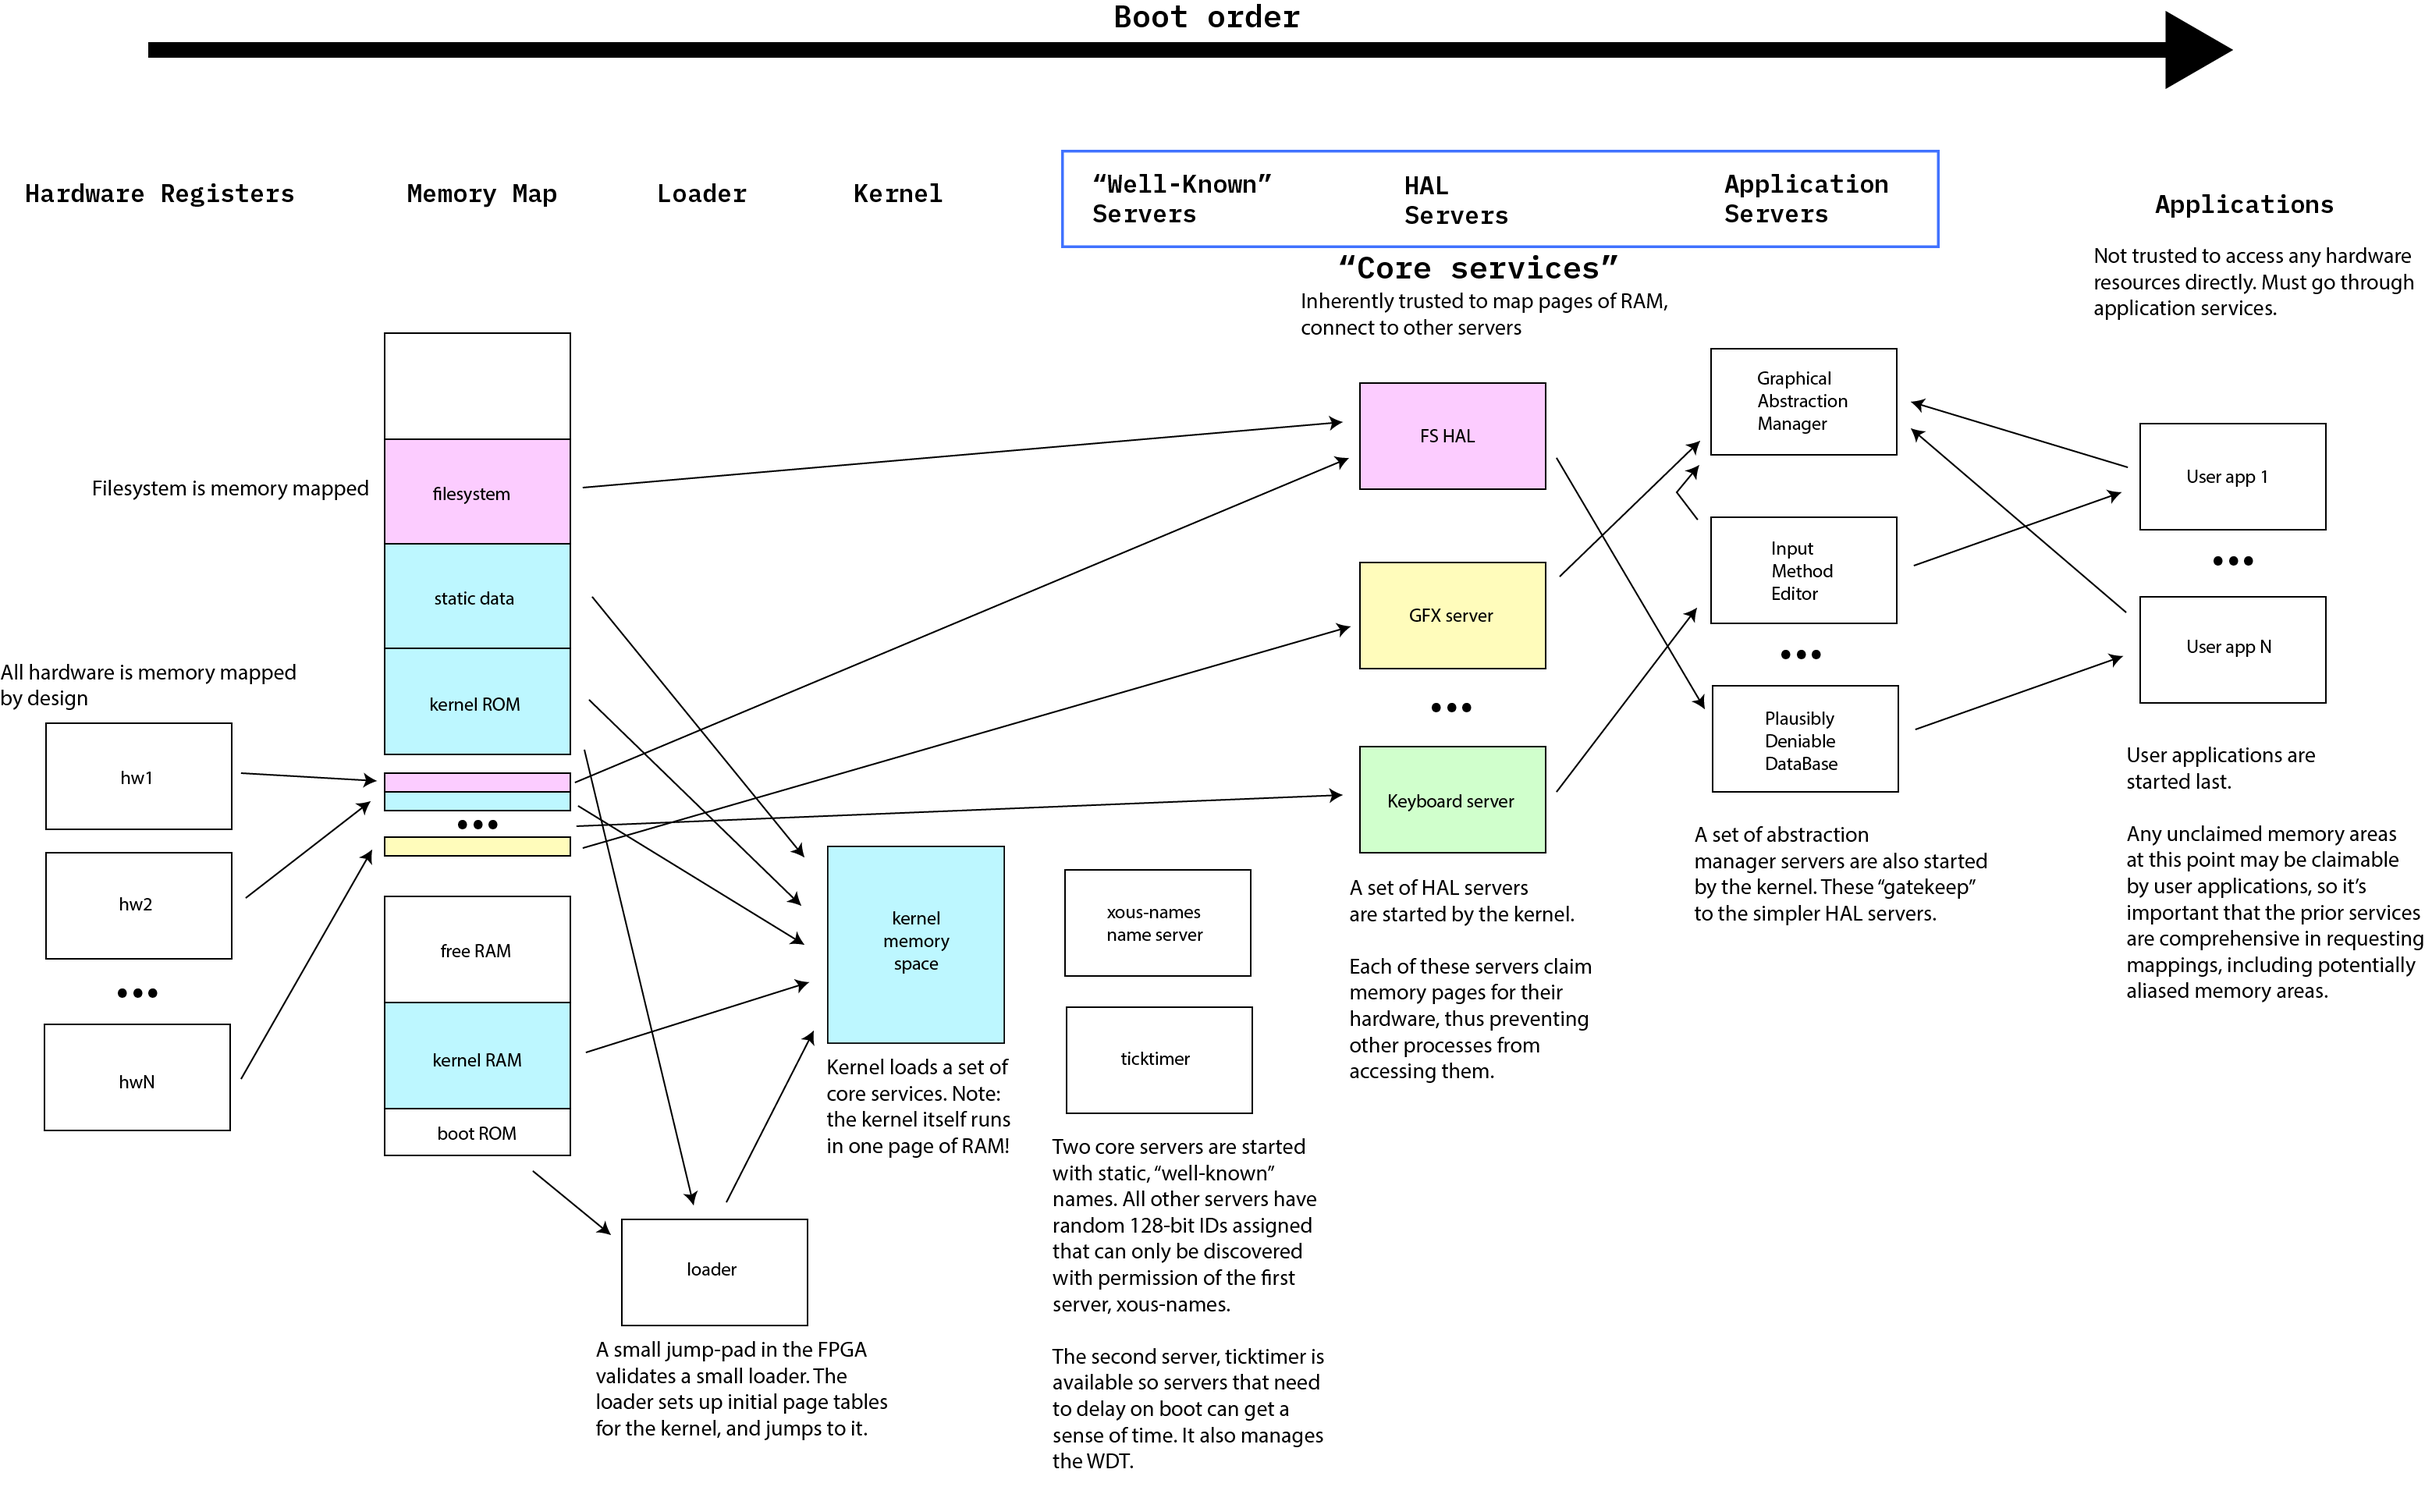
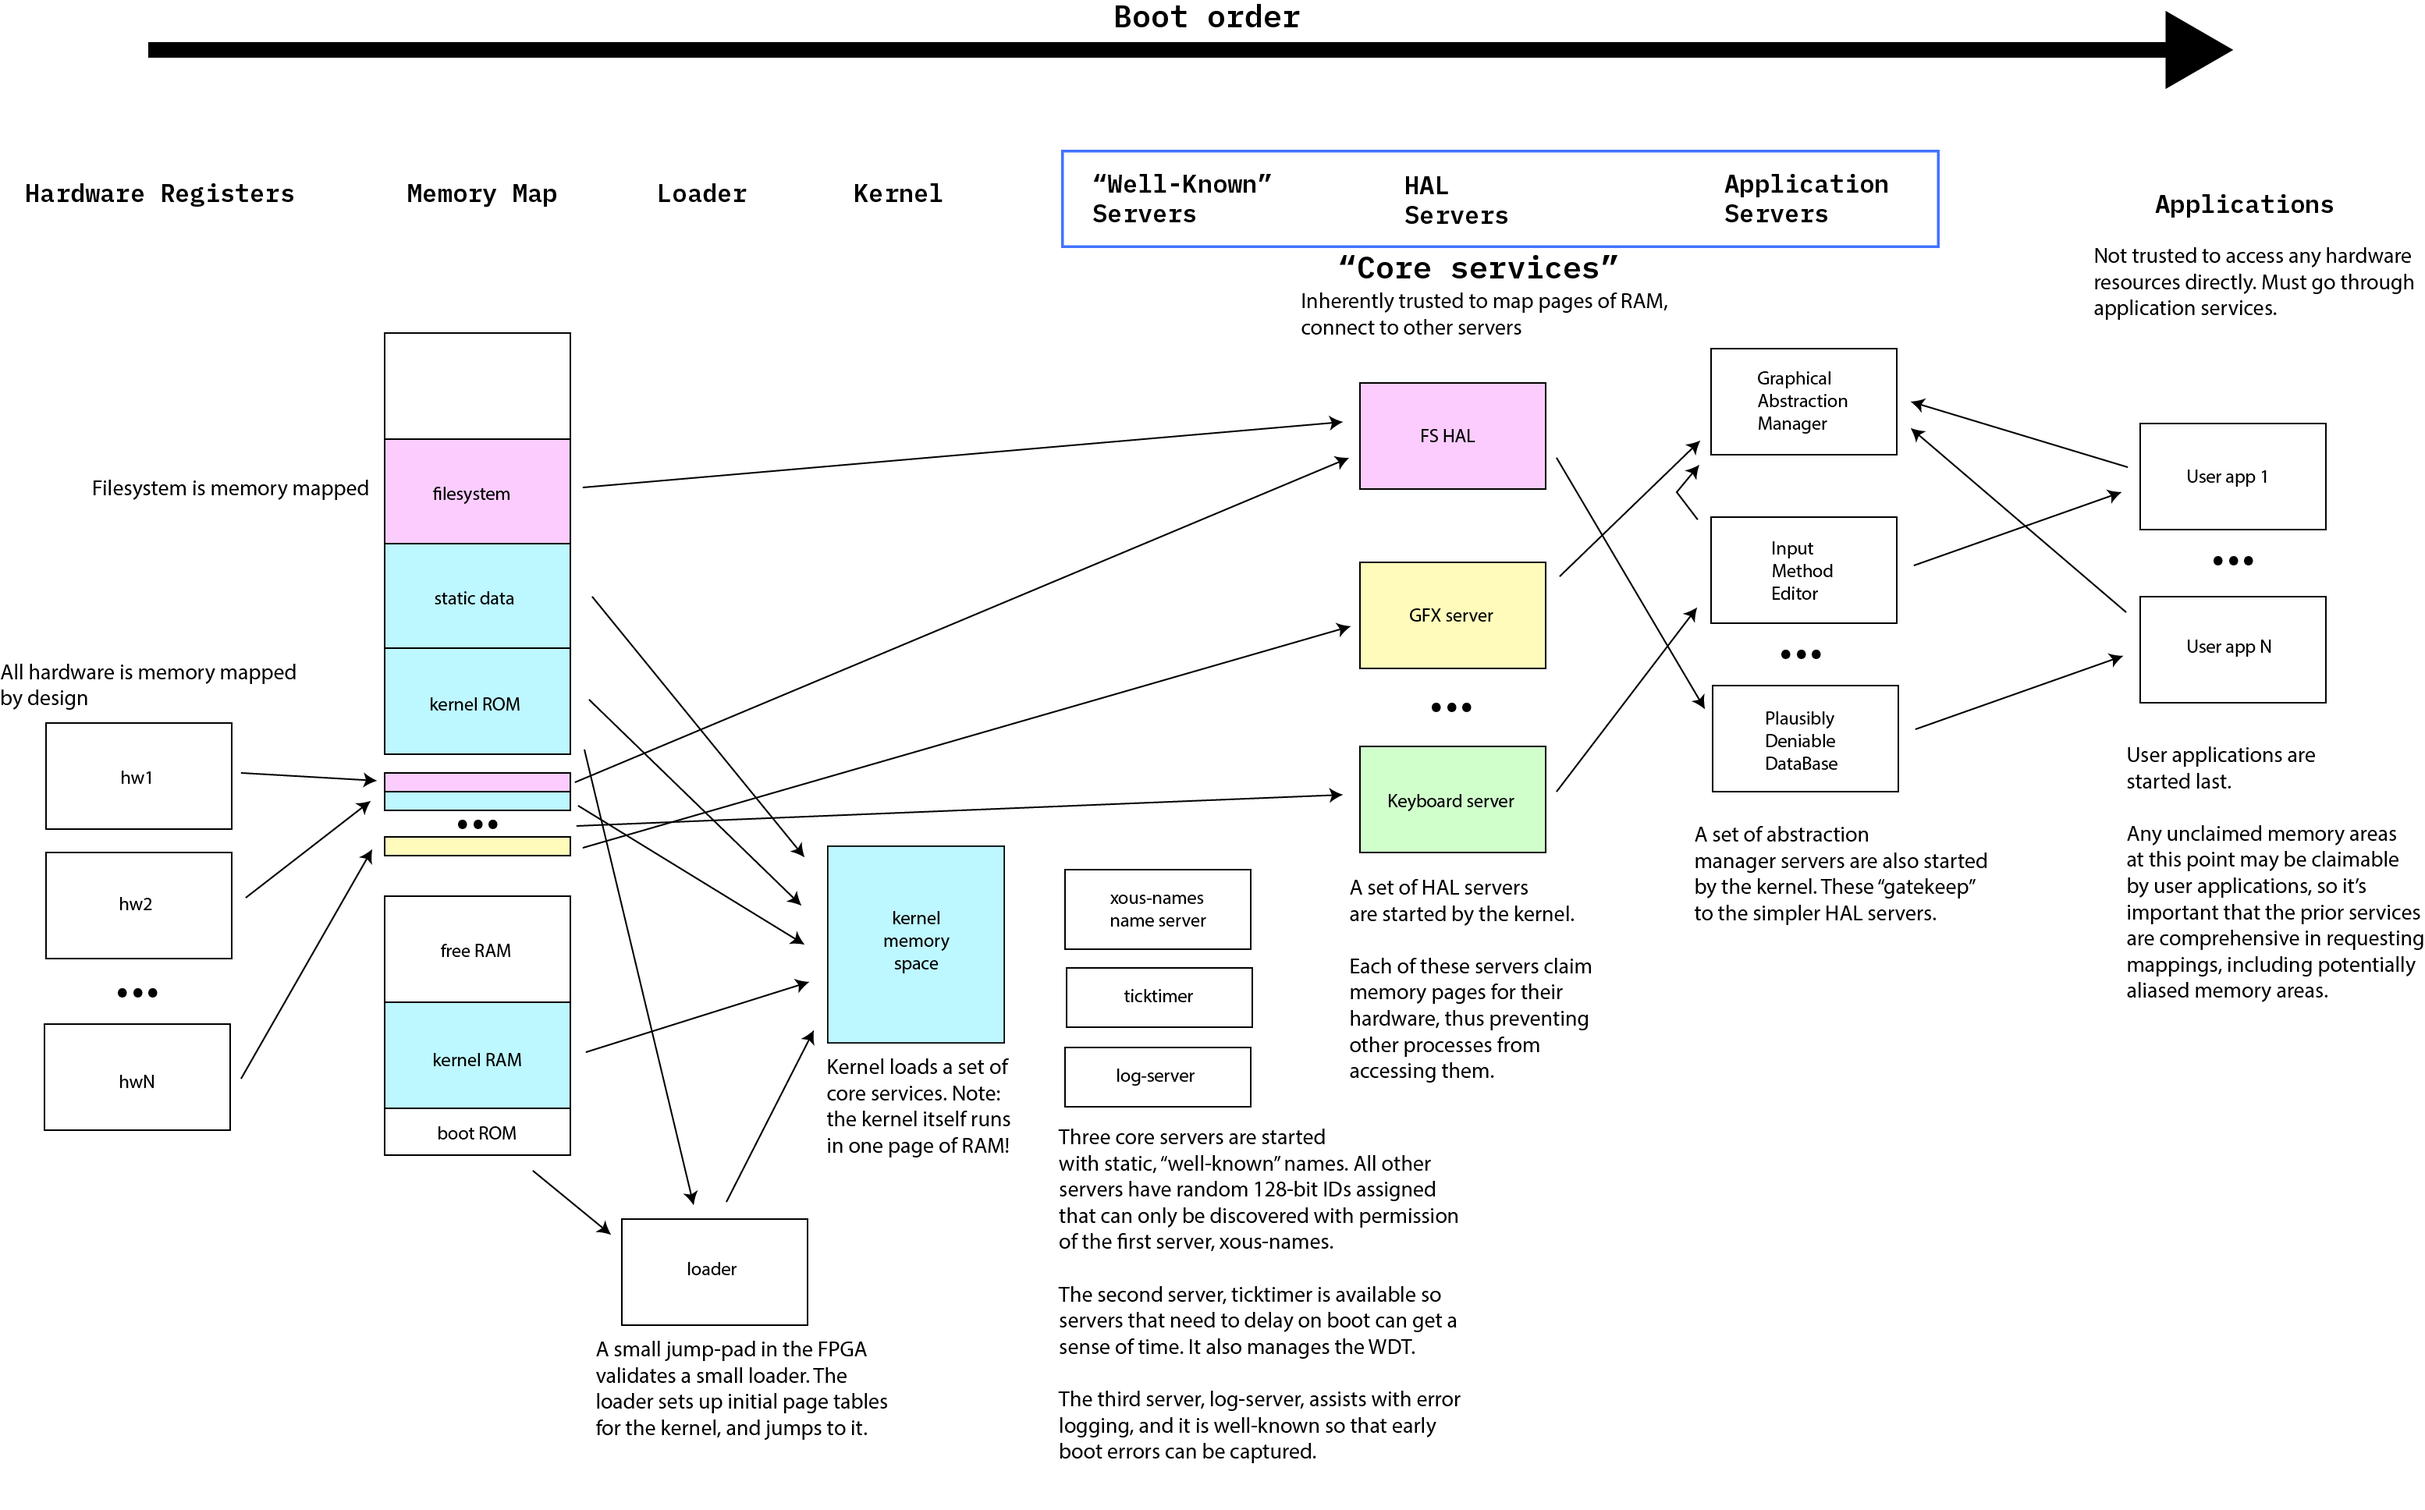
fix log-server's type

diff --git a/services/README.md b/services/README.md
@@ -14,12 +14,13 @@ The kernel starts up a core set of servers, which are broadly divided into three
 - "HAL" servers
 - "Application" servers
 
-Almost all servers in xous are accessed through a 128-bit, cryptographically random `SID`. These random IDs change with every boot. Thus, in order to connect to a server, one must first resolve its name into an `SID`. In order to facilitate this process, two "well known" servers are provided:
+Almost all servers in xous are accessed through a 128-bit, cryptographically random `SID`. These random IDs change with every boot. Thus, in order to connect to a server, one must first resolve its name into an `SID`. In order to facilitate this process, three "well known" servers are provided:
 
 - `xous-names`
 - `ticktimer-server`
+- `log-server`
 
-These two servers can be accessed by any process, regardless of their trust level, as their `SID` is actually a well-known number. The `ticktimer-server` is well-known so that servers can delay their boot (if necessary; so far it hasn't been). Please refer to the [README for xous-names](xous-names/README.md) for more details on how name resolution works.
+These three servers can be accessed by any process, regardless of their trust level, as their `SID` is actually a well-known number. The `ticktimer-server` is well-known so that servers can delay their boot (if necessary; so far it hasn't been). The `log-server` is well-known so that errors in connecting to the name server can be debugged.Please refer to the [README for xous-names](xous-names/README.md) for more details on how name resolution works.
 
 Initially, `xous-names` functions as a permissive oracle that allows kernel servers to freely look up `SID`s using the set of names defined in [names.rs](../xous-rs/src/names.rs). Once the kernel is initialized, a `lockdown` message is sent to `xous-names` which prevents any further lookups on servers that are meant to be private to the kernel. (*TODO*: a coherent, maintainable method for declaring private servers to `xous-names`)
 
@@ -37,6 +38,7 @@ Conceptually, a complete Xous OS implementation would have HALs that claim the p
 Here is the list of well-known services:
 - `ticktimer-server` -- beta -- allows processes to know elapsed time since start, and request sleeps. Also manages WDT.
 - `xous-names` -- incomplete alpha -- resolves names into `SID`s.
+- `log-server` -- beta -- implements info and error logging. Has a separate UART from the kernel UART.
 
 ## Hal Servers
 Here are a list of HALs, implemented and projected, and their functions:
@@ -44,7 +46,6 @@ Here are a list of HALs, implemented and projected, and their functions:
 - `com` -- beta -- manages requests to and from the EC
 - `graphics-server` -- alpha -- manages the frame buffer and basic drawing primitives. Talks to the MEMLCD
 - `keyboard` -- alpha -- key matrix management; debounce; ScanCode conversion. Keyboard layouts (qwerty, dvorak, azerty, qwertz, braille) are interpreted in this server
-- `log-server` -- beta -- implements info and error logging. Has a separate UART from the kernel UART.
 - `trng` -- alpha -- manages the TRNG hardware, provides TRNGs for other processes
 - `llio` -- planned -- manages I2C, RTC, GPIO, pin interrupts, soft reboot, and power pins. Also home for info, build IDs, etc.
 - `codec` -- planned -- basic buffering of frames into and out of the audio CODEC
